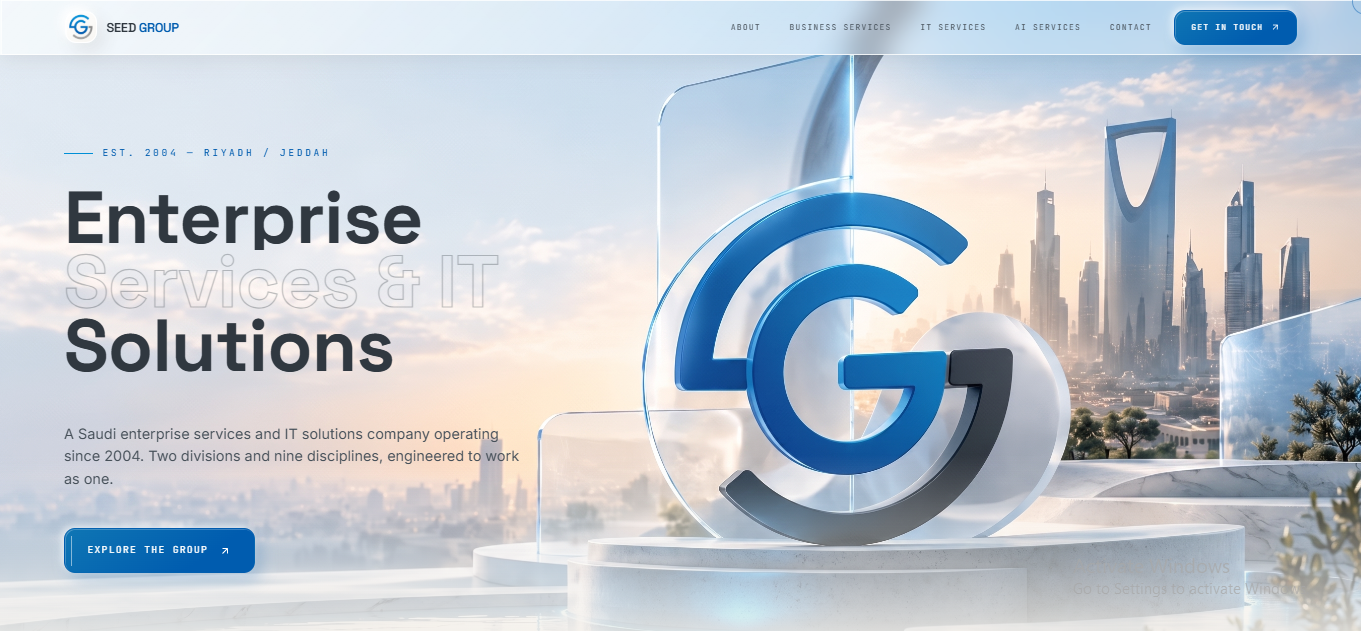
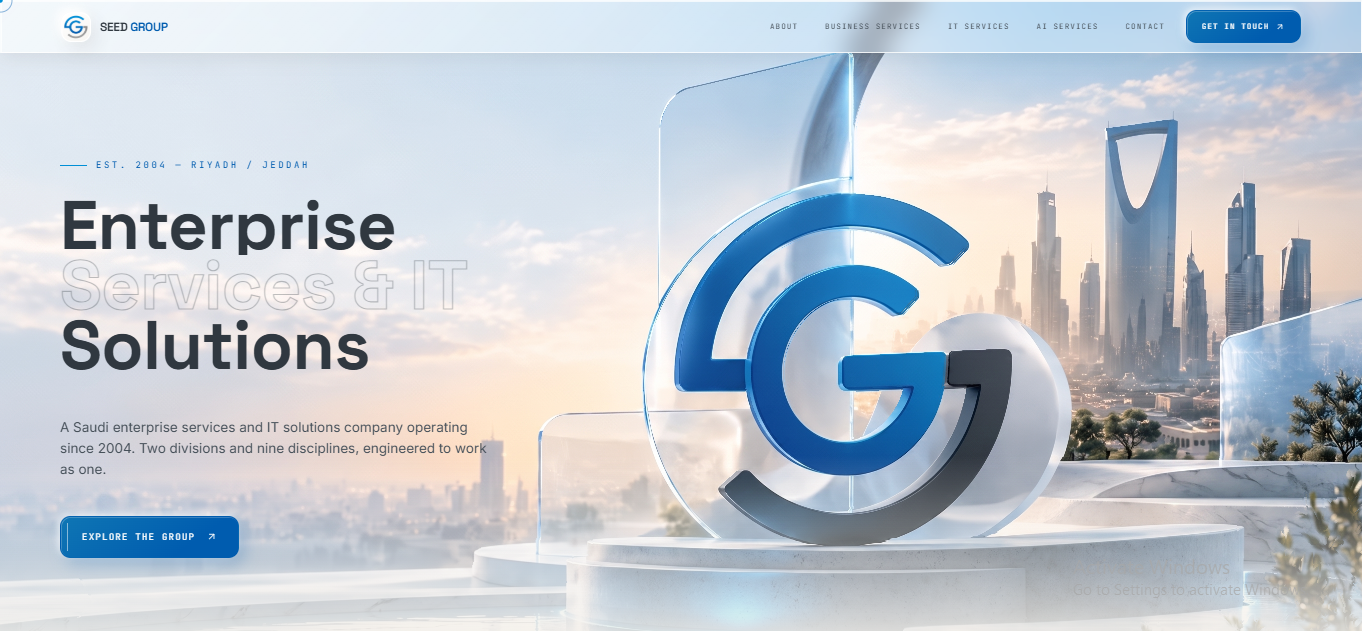
fix: image dim

diff --git a/src/data/initialProjects.ts b/src/data/initialProjects.ts
@@ -24,6 +24,7 @@ export const INITIAL_PROJECTS: PortfolioProject[] = [
     url: 'https://abl-funds.vercel.app/',
     displayUrl: 'abl-funds.vercel.app',
     headerImage: ablImg,
+    imageAspectRatio: 2.0622,
     colorAccent: '#59b7a6',
     awards: [{ name: 'Featured Work', type: 'honors', year: '2025' }],
     scores: { design: 9.6, usability: 9.5, creativity: 9.7, content: 9.4, total: 9.55 },
@@ -42,6 +43,7 @@ export const INITIAL_PROJECTS: PortfolioProject[] = [
     url: 'https://treet-blade-of-light.vercel.app/',
     displayUrl: 'treet-blade-of-light.vercel.app',
     headerImage: treatImg,
+    imageAspectRatio: 1.9559,
     colorAccent: '#59b7a6',
     awards: [{ name: 'Featured Work', type: 'honors', year: '2025' }],
     scores: { design: 9.4, usability: 9.3, creativity: 9.5, content: 9.1, total: 9.32 },
@@ -60,6 +62,7 @@ export const INITIAL_PROJECTS: PortfolioProject[] = [
     url: 'https://chery-tiggo.vercel.app/',
     displayUrl: 'chery-tiggo.vercel.app',
     headerImage: cheryImg,
+    imageAspectRatio: 1.9534,
     colorAccent: '#457292',
     awards: [{ name: 'Featured Work', type: 'honors', year: '2025' }],
     scores: { design: 9.5, usability: 9.4, creativity: 9.3, content: 9.2, total: 9.35 },
@@ -78,6 +81,7 @@ export const INITIAL_PROJECTS: PortfolioProject[] = [
     url: 'https://lubrichem.vercel.app/',
     displayUrl: 'lubrichem.vercel.app',
     headerImage: lubrichemImg,
+    imageAspectRatio: 1.961,
     colorAccent: '#59b7a6',
     awards: [{ name: 'Featured Work', type: 'honors', year: '2025' }],
     scores: { design: 9.2, usability: 9.3, creativity: 9.0, content: 9.3, total: 9.2 },
@@ -96,6 +100,7 @@ export const INITIAL_PROJECTS: PortfolioProject[] = [
     url: 'https://native-olive.vercel.app/',
     displayUrl: 'native-olive.vercel.app',
     headerImage: nativeImg,
+    imageAspectRatio: 1.96,
     colorAccent: '#59b7a6',
     awards: [{ name: 'Featured Work', type: 'honors', year: '2025' }],
     scores: { design: 9.5, usability: 9.4, creativity: 9.4, content: 9.3, total: 9.4 },
@@ -114,6 +119,7 @@ export const INITIAL_PROJECTS: PortfolioProject[] = [
     url: 'https://abwin.vercel.app/',
     displayUrl: 'abwin.vercel.app',
     headerImage: abwinImg,
+    imageAspectRatio: 1.9504,
     colorAccent: '#457292',
     awards: [{ name: 'Featured Work', type: 'honors', year: '2025' }],
     scores: { design: 9.3, usability: 9.3, creativity: 9.2, content: 9.1, total: 9.22 },
@@ -132,6 +138,7 @@ export const INITIAL_PROJECTS: PortfolioProject[] = [
     url: 'https://sylqora.vercel.app/',
     displayUrl: 'sylqora.vercel.app',
     headerImage: sylqooraImg,
+    imageAspectRatio: 1.9594,
     colorAccent: '#59b7a6',
     awards: [{ name: 'Featured Work', type: 'honors', year: '2025' }],
     scores: { design: 9.6, usability: 9.4, creativity: 9.6, content: 9.3, total: 9.48 },
@@ -150,6 +157,7 @@ export const INITIAL_PROJECTS: PortfolioProject[] = [
     url: 'https://aurelle-sand.vercel.app/',
     displayUrl: 'aurelle-sand.vercel.app',
     headerImage: aurelleImg,
+    imageAspectRatio: 1.9544,
     colorAccent: '#59b7a6',
     awards: [{ name: 'Featured Work', type: 'honors', year: '2025' }],
     scores: { design: 9.5, usability: 9.3, creativity: 9.5, content: 9.2, total: 9.38 },
@@ -168,6 +176,7 @@ export const INITIAL_PROJECTS: PortfolioProject[] = [
     url: 'https://ebm-web.vercel.app/',
     displayUrl: 'ebm-web.vercel.app',
     headerImage: ebmImg,
+    imageAspectRatio: 1.9534,
     colorAccent: '#457292',
     awards: [{ name: 'Featured Work', type: 'honors', year: '2025' }],
     scores: { design: 9.3, usability: 9.5, creativity: 9.2, content: 9.4, total: 9.35 },
@@ -186,6 +195,7 @@ export const INITIAL_PROJECTS: PortfolioProject[] = [
     url: 'https://dreamworld-mu.vercel.app/',
     displayUrl: 'dreamworld-mu.vercel.app',
     headerImage: dreamworldImg,
+    imageAspectRatio: 1.9557,
     colorAccent: '#457292',
     awards: [{ name: 'Featured Work', type: 'honors', year: '2025' }],
     scores: { design: 9.3, usability: 9.3, creativity: 9.3, content: 9.4, total: 9.32 },
@@ -204,6 +214,7 @@ export const INITIAL_PROJECTS: PortfolioProject[] = [
     url: 'https://noore-abayas.netlify.app/',
     displayUrl: 'noore-abayas.netlify.app',
     headerImage: abayaImg,
+    imageAspectRatio: 1.9524,
     colorAccent: '#59b7a6',
     awards: [{ name: 'Featured Work', type: 'honors', year: '2025' }],
     scores: { design: 9.4, usability: 9.4, creativity: 9.3, content: 9.3, total: 9.35 },
@@ -222,6 +233,7 @@ export const INITIAL_PROJECTS: PortfolioProject[] = [
     url: 'https://seedgroup.vercel.app/',
     displayUrl: 'seedgroup.vercel.app',
     headerImage: seedGroupImg,
+    imageAspectRatio: 2.1585,
     colorAccent: '#59b7a6',
     awards: [{ name: 'Featured Work', type: 'honors', year: '2025' }],
     scores: { design: 9.3, usability: 9.4, creativity: 9.3, content: 9.4, total: 9.35 },

diff --git a/src/components/WebsiteHeaderCard.tsx b/src/components/WebsiteHeaderCard.tsx
@@ -33,8 +33,11 @@ export const WebsiteHeaderCard: React.FC<WebsiteHeaderCardProps> = ({
         </div>
       </div>
 
-      {/* 2. 16:9 RATIO PREVIEW */}
-      <div className="relative aspect-[16/9] w-full overflow-hidden bg-[#0B0F13]">
+      {/* 2. PREVIEW MATCHING IMAGE ASPECT RATIO */}
+      <div
+        className="relative w-full overflow-hidden bg-[#0B0F13]"
+        style={{ aspectRatio: project.imageAspectRatio ?? 16 / 9 }}
+      >
         <img
           src={imgError ? 'https://images.unsplash.com/photo-1618005182384-a83a8bd57fbe?auto=format&fit=crop&w=1600&q=85' : project.headerImage}
           alt={`${project.title} website preview`}

diff --git a/src/types.ts b/src/types.ts
@@ -22,6 +22,7 @@ export interface PortfolioProject {
   url: string;
   displayUrl: string;
   headerImage: string;
+  imageAspectRatio?: number;
   previewType?: 'image' | 'interactive';
   colorAccent: string;
   awards: AwardBadge[];
